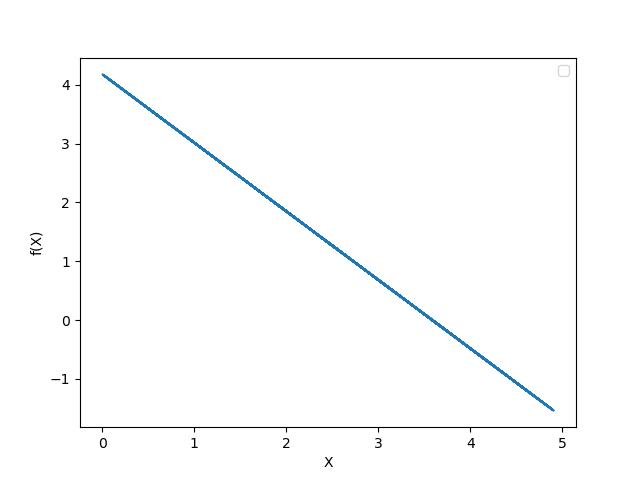
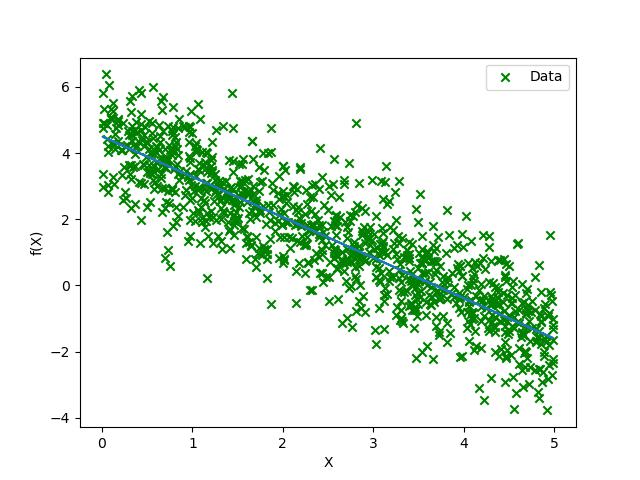
Chi LR Comparison

diff --git a/Chi_Squared_efficient.py b/Chi_Squared_efficient.py
@@ -7,7 +7,7 @@ import time
 ##################################################################################################################
 
 # Read in the data
-input_data=np.loadtxt('data_for_linear_regression_10000.txt')
+input_data=np.loadtxt('data_for_linear_regression_1000.txt')
 
 ##################################################################################################################
 # Setup the input parameters
@@ -17,14 +17,14 @@ start_time = time.time()
 # Priors on free parameters
 a_min=-2
 a_max=-1
-b_min=5
-b_max=4
+b_min=4
+b_max=5
 # number of grid points
 n_grid=10
 
 #Number and bins and bin size
 #bin_number=int(input('Please enter number of bins '))
-bin_number=10
+bin_number=30
 
 
 ##################################################################################################################
@@ -209,13 +209,17 @@ print(B_grid[position])
 
 
 y=linear(A_grid[position],B_grid[position],x)
+y_lr=linear(-1.2010050251256281,4.49748743718593,x)
+y_lr=linear(-1.221105527638191,4.50251256281407,x)
 
 pl.title('Chi Squared Fitting to f(x)=ax+b, a='+str(round(A_grid[position],2))+' b='+str(round(B_grid[position],2)))
-#pl.plot(new_data[:,0],new_data[:,1])
 pl.scatter(input_data[:,0],input_data[:,1],marker='x',c='g',alpha=0.5,label='Data')
 pl.plot(x,y,c='k',label='Theory')
 pl.errorbar(new_data[:,0],new_data[:,1],yerr=np.sqrt(new_data[:,2]),c='r',ls='none',markersize=4,marker='o',capsize=5,alpha=0.7,label='Binned data')
-# pl.plot(new_data[:,0],theory_list,c='r')
+pl.plot(x,y_lr,c='y',ls='--')
+# pl.plot(new_data[:,0],theory_list,c='y')
+# pl.plot(new_data[:,0],new_data[:,1],c='y')
+pl.plot()
 pl.xlabel('X')
 pl.ylabel('f(X)')
 pl.legend()

diff --git a/Linear_Regression_efficent.py b/Linear_Regression_efficent.py
@@ -25,7 +25,7 @@ def line_finder (inputlist):
 # Read in data
 ##################################################################################################################
 
-input_data=np.loadtxt('data_for_linear_regression.txt')
+input_data=np.loadtxt('data_for_linear_regression_1000.txt')
 
 
 ##################################################################################################################
@@ -33,7 +33,7 @@ input_data=np.loadtxt('data_for_linear_regression.txt')
 ##################################################################################################################
 
 n_grid=200
-a=np.linspace(-1,-2,n_grid)
+a=np.linspace(-2,-1,n_grid)
 b=np.linspace(4,5,n_grid)
 A,B=np.meshgrid(a,b)
 A_grid=A.flatten()
@@ -68,12 +68,14 @@ y=linear(A_grid[best_fit],B_grid[best_fit],x)
 print(A_grid[best_fit])
 print(B_grid[best_fit])
 
+
+
 ##################################################################################################################
 # Plot data points and theory line
 ##################################################################################################################
 
 pl.plot(x,y)
-#pl.scatter(input_data[:,0],input_data[:,1],label='Data',marker='x',c='g')
+pl.scatter(input_data[:,0],input_data[:,1],label='Data',marker='x',c='g')
 pl.xlabel('X')
 pl.ylabel('f(X)')
 pl.legend()
